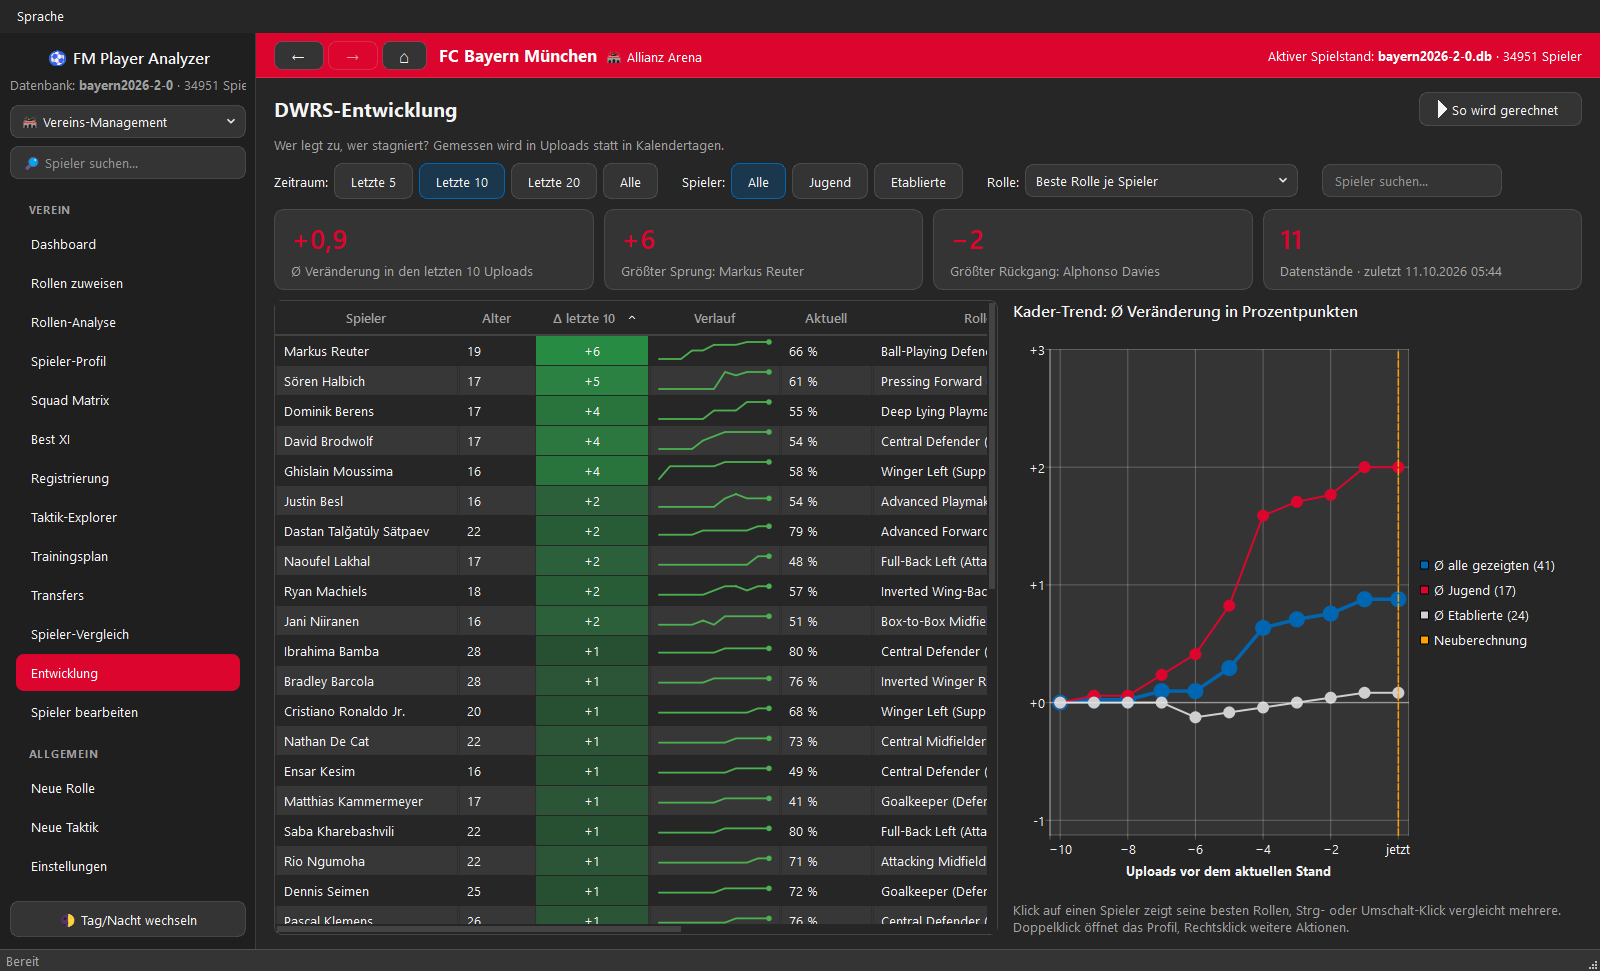
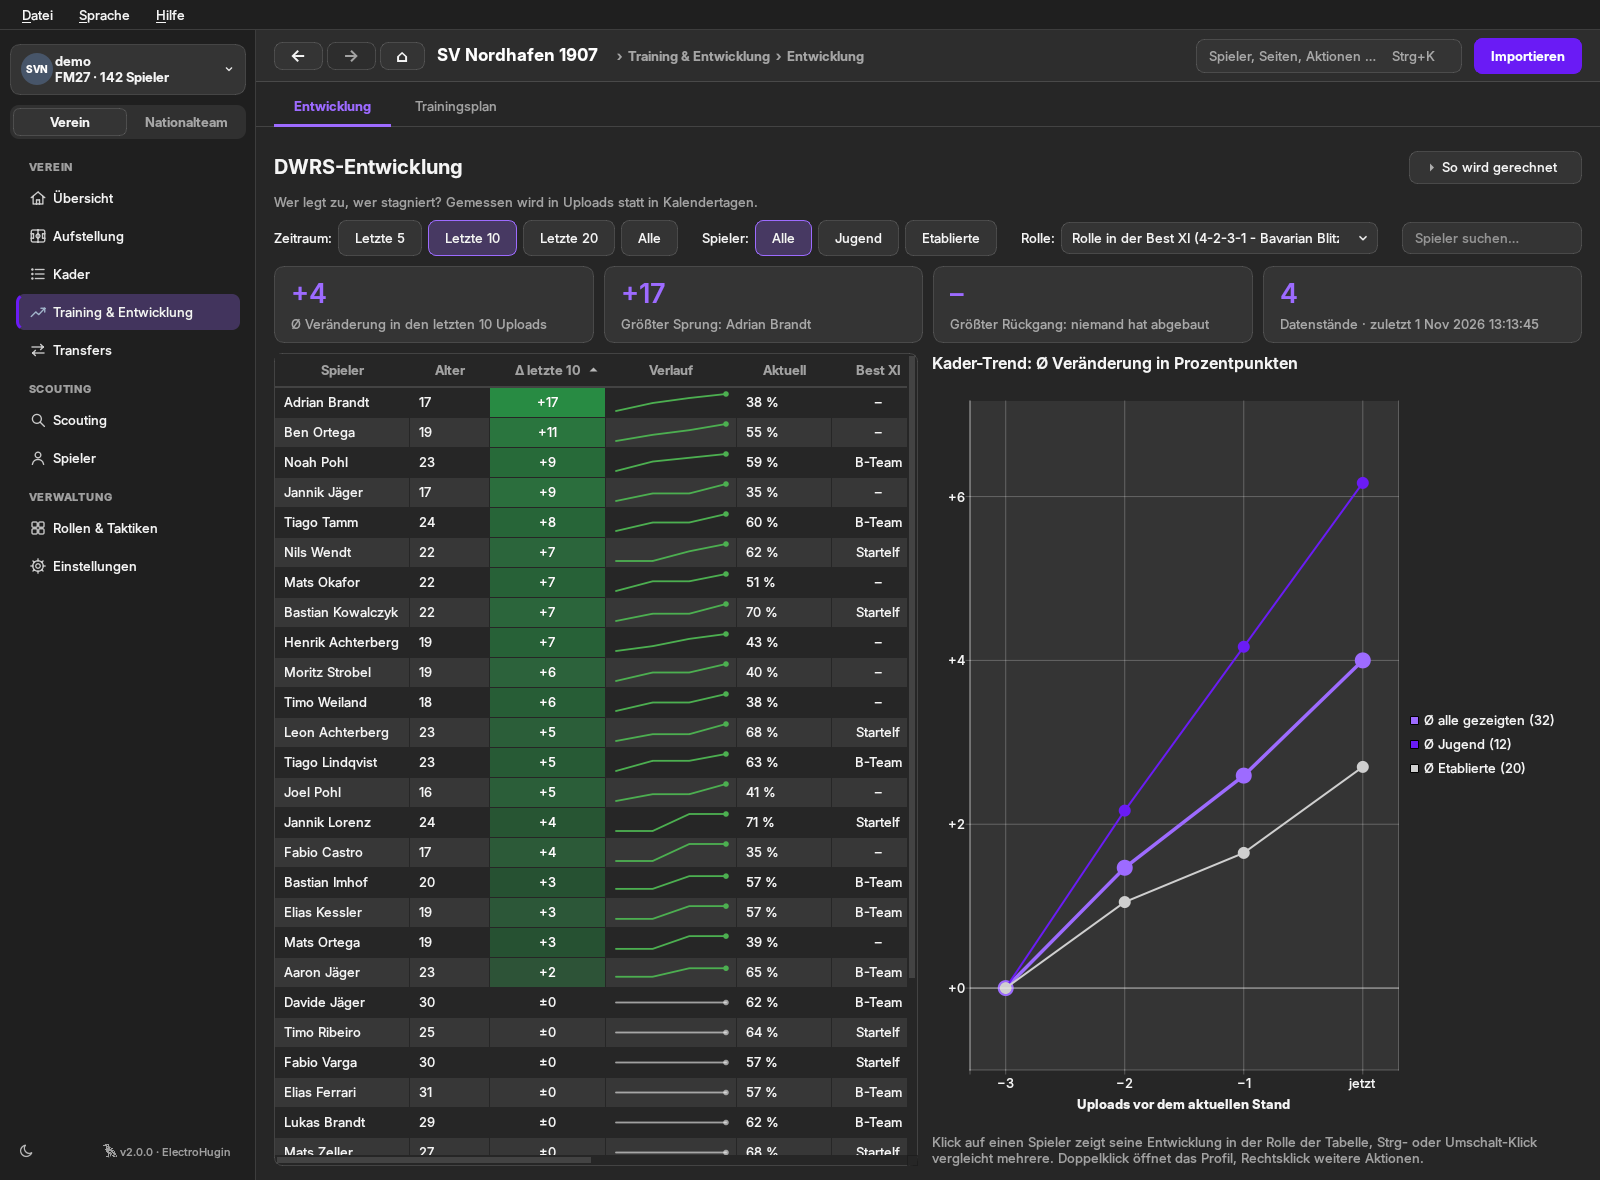
Neue README-Screenshots (DE/EN) mit erfundenem Demo-Verein; Screenshot-Rundgang per FMPA_SCREENSHOTS; kürzere Platz-Hinweise auf dem Spielfeld

diff --git a/desktop/translations/fmplayeranalyzer_en.ts b/desktop/translations/fmplayeranalyzer_en.ts
@@ -927,12 +927,12 @@
         <translation type="vanished">B-team out of possession</translation>
     </message>
     <message>
-        <source>ohne Ball: %1</source>
-        <translation>out of possession: %1</translation>
+        <source>ohne: %1</source>
+        <translation>OOP: %1</translation>
     </message>
     <message>
-        <source>mit Ball: %1</source>
-        <translation>in possession: %1</translation>
+        <source>mit: %1</source>
+        <translation>IP: %1</translation>
     </message>
     <message>
         <source>Diese Taktik hat eine Aufstellung mit Ball und eine ohne Ball. Der Analyzer wählt die Spieler so, dass die Summe aus %1 % Rolle mit Ball und %2 % Rolle ohne Ball am höchsten ist; jeder Spieler braucht die Position in beiden Aufstellungen. Unter dem Namen steht sein Platz in der anderen Aufstellung. Den Anteil stellst du in den Einstellungen ein.</source>

diff --git a/desktop/src/app/ScreenshotTour.cpp b/desktop/src/app/ScreenshotTour.cpp
@@ -1,0 +1,101 @@
+#include "ScreenshotTour.h"
+
+#include "AppContext.h"
+#include "PlayerActions.h"
+#include "theming/ThemeManager.h"
+
+#include <QCoreApplication>
+#include <QDir>
+#include <QTimer>
+#include <QWidget>
+
+#include <algorithm>
+#include <functional>
+#include <memory>
+
+namespace fm::ScreenshotTour {
+
+namespace {
+
+struct Step {
+    std::function<void()> prepare;
+    QString file; // empty: no picture for this step
+};
+
+} // namespace
+
+bool requested()
+{
+    return qEnvironmentVariableIsSet("FMPA_SCREENSHOTS");
+}
+
+void start(AppContext &context, ThemeManager &theme, QWidget *window)
+{
+    const QString dir = qEnvironmentVariable("FMPA_SCREENSHOTS");
+    QDir().mkpath(dir);
+    window->resize(1600, 1180);
+
+    // The two best-known players of the own club for profile and comparison.
+    QStringList own;
+    std::vector<const Player *> club;
+    for (const Player &p : context.store().players()) {
+        if (p.club == context.userClub())
+            club.push_back(&p);
+    }
+    std::sort(club.begin(), club.end(),
+              [](const Player *a, const Player *b) { return a->age > b->age; });
+    QStringList centreBacks; // comparison: players sharing their roles
+    for (const Player *p : club) {
+        own << p->uid;
+        if (p->positionRaw == QLatin1String("D (C)") && centreBacks.size() < 3)
+            centreBacks << p->uid;
+    }
+
+    const auto page = [&context](const QString &id) {
+        return [&context, id] { context.requestNavigation(id); };
+    };
+    auto steps = std::make_shared<QList<Step>>(QList<Step>{
+        {[&theme] { theme.setMode(QStringLiteral("night")); }, {}},
+        {page(QStringLiteral("dashboard")), QStringLiteral("dashboard.png")},
+        {page(QStringLiteral("best_xi")), QStringLiteral("best-xi.png")},
+        {page(QStringLiteral("role_analysis")), QStringLiteral("role-analysis.png")},
+        {[&context, own] { PlayerActions::openProfile(context, own.value(own.size() / 2)); },
+         QStringLiteral("profile.png")},
+        {[&context, centreBacks] {
+             for (const QString &uid : centreBacks)
+                 context.addPendingComparisonUid(uid);
+             context.requestNavigation(QStringLiteral("player_comparison"));
+         },
+         QStringLiteral("comparison.png")},
+        {page(QStringLiteral("tactic_explorer")), QStringLiteral("tactic-explorer.png")},
+        {page(QStringLiteral("training_plan")), QStringLiteral("training.png")},
+        {page(QStringLiteral("registration")), QStringLiteral("registration.png")},
+        {page(QStringLiteral("dwrs_development")), QStringLiteral("development.png")},
+        {page(QStringLiteral("new_tactic")), QStringLiteral("tactic-editor.png")},
+        {[&context, &theme] {
+             theme.setMode(QStringLiteral("day"));
+             context.requestNavigation(QStringLiteral("dashboard"));
+         },
+         QStringLiteral("dashboard-light.png")},
+    });
+
+    auto index = std::make_shared<int>(0);
+    auto next = std::make_shared<std::function<void()>>();
+    *next = [steps, index, next, window, dir] {
+        if (*index >= steps->size()) {
+            QCoreApplication::quit();
+            return;
+        }
+        const Step step = steps->at(*index);
+        step.prepare();
+        QTimer::singleShot(2500, window, [steps, index, next, window, dir, step] {
+            if (!step.file.isEmpty())
+                window->grab().save(QDir(dir).filePath(step.file));
+            ++*index;
+            (*next)();
+        });
+    };
+    QTimer::singleShot(1500, window, [next] { (*next)(); });
+}
+
+} // namespace fm::ScreenshotTour

diff --git a/desktop/src/app/pages/BestXiPage.cpp b/desktop/src/app/pages/BestXiPage.cpp
@@ -661,8 +661,8 @@ void BestXiPage::rebuild()
                 if (!it->isFilled())
                     continue;
                 const auto pair = squad.slotsOfUid.value(it->playerUid);
-                texts.insert(it.key(), ipSide ? tr("ohne Ball: %1").arg(pair.second)
-                                              : tr("mit Ball: %1").arg(pair.first));
+                texts.insert(it.key(), ipSide ? tr("ohne: %1").arg(pair.second)
+                                              : tr("mit: %1").arg(pair.first));
             }
             return texts;
         };

diff --git a/desktop/src/app/main.cpp b/desktop/src/app/main.cpp
@@ -9,6 +9,7 @@
 #include "AppContext.h"
 #include "FirstRunDialog.h"
 #include "MainWindow.h"
+#include "ScreenshotTour.h"
 #include "StartScreen.h"
 #include "theming/ThemeManager.h"
 #include "core/Version.h"
@@ -87,6 +88,8 @@ int main(int argc, char *argv[])
 
     fm::MainWindow window(context, theme);
     window.show();
+    if (fm::ScreenshotTour::requested())
+        fm::ScreenshotTour::start(context, theme, &window);
 
     // --smoke: exit immediately after the event loop starts (build verification)
     if (smoke) {

diff --git a/desktop/src/app/ScreenshotTour.h b/desktop/src/app/ScreenshotTour.h
@@ -1,0 +1,22 @@
+#pragma once
+
+#include <QString>
+
+class QWidget;
+
+namespace fm {
+
+class AppContext;
+class ThemeManager;
+
+// README screenshots (no user feature): with FMPA_SCREENSHOTS=<folder> set,
+// the app walks through the main pages, saves one PNG per page and quits.
+// Run it on a demo save with invented players only.
+namespace ScreenshotTour {
+
+bool requested();
+void start(AppContext &context, ThemeManager &theme, QWidget *window);
+
+} // namespace ScreenshotTour
+
+} // namespace fm

diff --git a/README.de.md b/README.de.md
@@ -83,7 +83,7 @@ ergeben. Startelf und B-Team stehen nebeneinander auf dem Spielfeld in deiner
 Formation, jeder Spieler mit Bewertung, Rolle und vereinbarter Spielzeit.
 Doppelklick auf einen Spieler öffnet sein Profil, Rechtsklick alles Weitere.
 
-<img src="docs/screenshots/de/best-xi.png" alt="Best-XI-Seite: Startelf und B-Team auf zwei Taktik-Spielfeldern, jeder Spieler mit Bewertung, Rolle und Spielzeit" width="100%">
+<img src="docs/screenshots/de/best-xi.png" alt="Best-XI-Seite: die Startelf mit Ball und ohne Ball nebeneinander, jeder Spieler mit Bewertung, Rolle und seinem Platz in der anderen Aufstellung" width="100%">
 
 **Beweisbar optimal — keine Faustregel.** Die meisten Tools gehen die
 Formation Position für Position durch und geben jeder ihren besten Spieler.

diff --git a/README.md b/README.md
@@ -82,7 +82,7 @@ Starting XI and B-team stand side by side on the pitch in your formation, every
 player with his rating, his role and his agreed playing time. Double-click a
 player for his profile, right-click for everything else.
 
-<img src="docs/screenshots/en/best-xi.png" alt="Best XI page: starting eleven and B-team on two tactical pitches, each player with rating, role and playing time" width="100%">
+<img src="docs/screenshots/en/best-xi.png" alt="Best XI page: the starting eleven in possession and out of possession side by side, each player with rating, role and his place in the other line-up" width="100%">
 
 **Provably optimal — not a rule of thumb.** Most tools walk through the
 formation slot by slot and hand each one its best player. That breaks as soon
